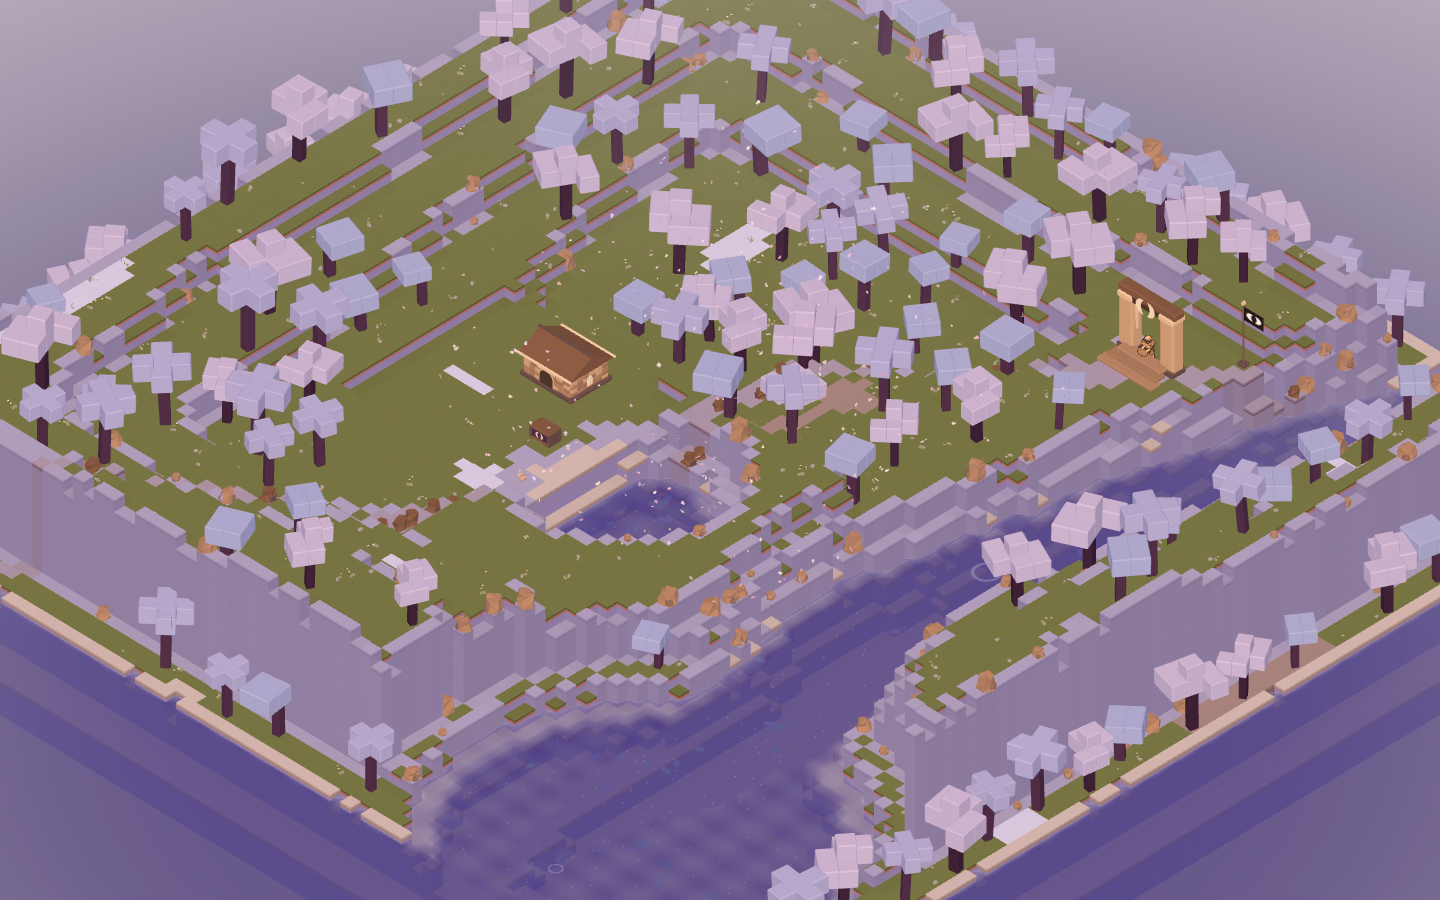
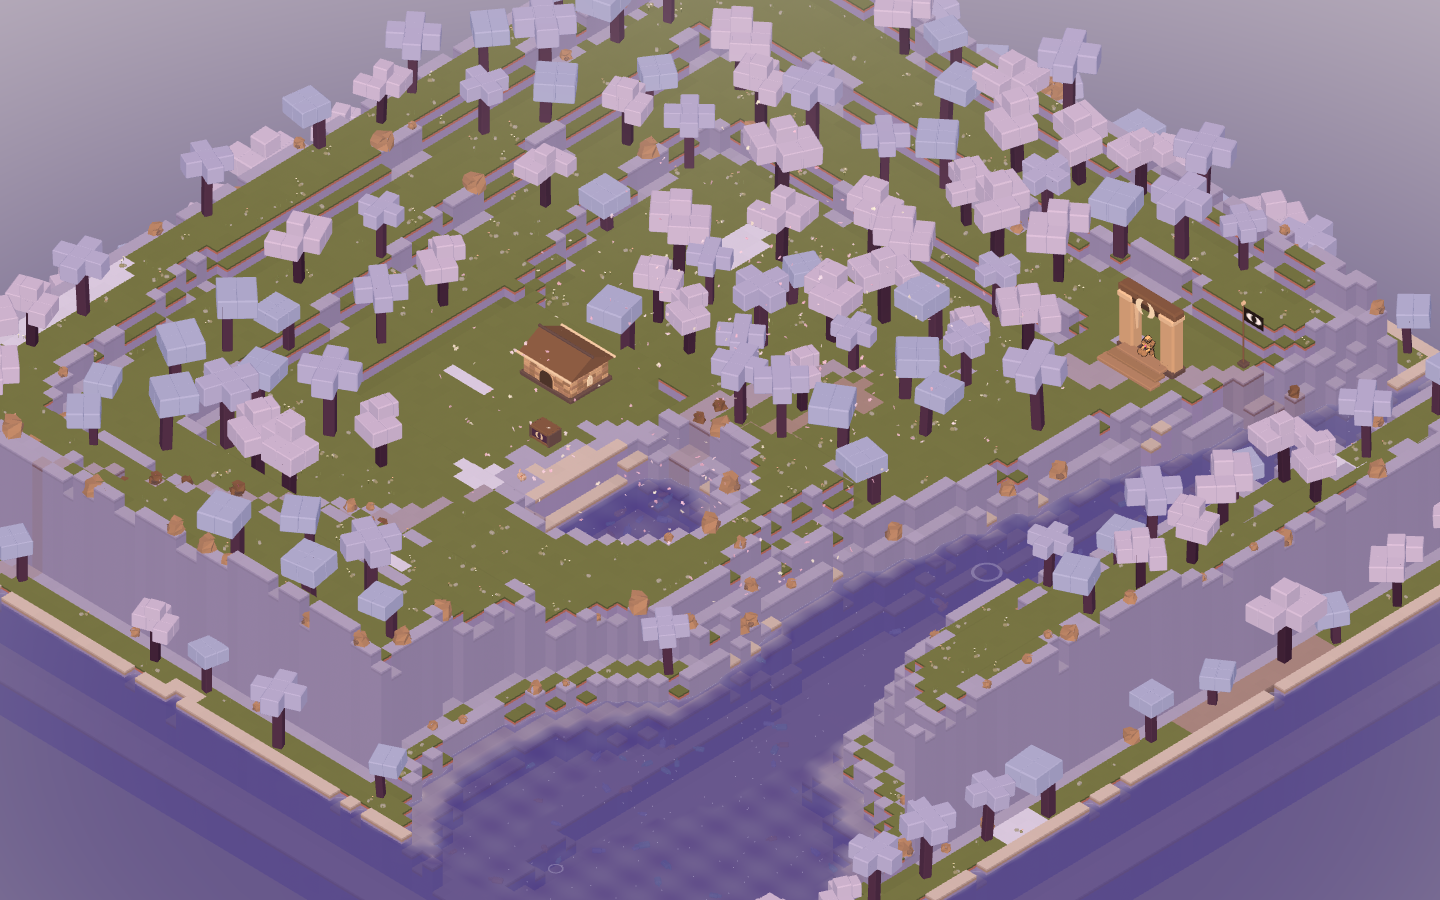
Nothing on a phone was tappable, because #app is position: fixed
The report was that the menu could not be clicked at all on mobile. The cause is
one line of CSS and it was much wider than the menu.

`#app` is `position: fixed`, and a fixed element creates a stacking context
whatever its z-index is. So everything inside it — the HUD at 10, the panels at
20, the title card at 40 — is layered against each OTHER and then the whole
subtree is painted as one unit at z-index auto. The touch canvas was appended to
`body` at z-index 15, which put it above all of it.

That is not a menu bug. On a phone, every DOM control in the game was covered by
a fullscreen transparent canvas that swallows pointer events: the hotbar, the
audio toggles, the tutorial's skip link, and every button in every panel.
Nothing was tappable, nothing threw, and nothing logged anything.

The canvas goes inside `#app` now, so the z-index it was given finally means
what it says, and the layers are written down in one place: world 0, pads 5, HUD
10, panels 20, title 40, cold open 44. The pads are also hidden outright while
the menu or the cold open is up — they belong to the game, not to the menu.

A screenshot cannot see any of this, which is why the mobile pose passed through
all of it. So the poses hit-test instead: `mobilemenu` presses Begin with a real
tap, skips the cold open and asserts the game is running; `mobile` runs
`elementFromPoint` over a hotbar slot, the sound toggle and the skip link and
[…]

diff --git a/tools/checks.js b/tools/checks.js
@@ -806,6 +806,42 @@ console.log('\nthe touch controls')
   }
   assert(tightest >= 10, 'no two pads overlap', `${pair} are ${tightest.toFixed(1)} points apart`)
 
+  /**
+   * The pads live INSIDE `#app`.
+   *
+   * `#app` is `position: fixed`, and a fixed element creates a stacking context
+   * whatever its z-index is — so everything inside it is layered against its
+   * siblings and then painted as one unit. A canvas appended to `body` at
+   * z-index 15 therefore sat above the entire interface: the title card at 40,
+   * the panels at 20, the hotbar, the audio toggles, the skip link. On a phone
+   * nothing at all was tappable, and nothing logged anything about it.
+   */
+  const touch = read(path.join(SRC, 'ui/touch.js'))
+  assert(/getElementById\('app'\)/.test(touch),
+    'the touch canvas lives inside #app, not on the body')
+  const css = read(path.join(SRC, 'ui/ui.css'))
+  // Plain string parsing rather than a regex: the block this reads is four
+  // rules and the escaping is not worth the risk of a pattern that quietly
+  // matches nothing and reports every layer as absent.
+  const layer = (sel) => {
+    const at = css.indexOf(`${sel} {`)
+    if (at < 0) return null
+    const rule = css.slice(at, css.indexOf('}', at))
+    const z = rule.indexOf('z-index:')
+    return z < 0 ? null : Number.parseInt(rule.slice(z + 8), 10)
+  }
+  const pads = layer('#touch')
+  const hud = layer('.hud')
+  const panels = layer('.panels')
+  const title = layer('.title')
+  const layers = `#touch ${pads} .hud ${hud} .panels ${panels} .title ${title}`
+  assert([pads, hud, panels, title].every((v) => Number.isInteger(v)),
+    'every interface layer declares a z-index', layers)
+  assert(pads < hud && hud < panels && panels < title,
+    'the pads sit under the interface they are meant to sit under', layers)
+  assert(css.includes('body.is-title #touch { display: none'),
+    'and they are not drawn over the menu at all')
+
   // The cluster has to fit beside the stick on the narrowest phone worth
   // supporting. 320 points is an iPhone SE in portrait.
   const NARROW = 320

diff --git a/src/ui/title.js b/src/ui/title.js
@@ -3,6 +3,7 @@ import { svgWordmark } from '../core/wordmark.js'
 import { GameState } from '../game/state.js'
 import { loadAppearance, saveAppearance } from '../game/appearance.js'
 import { buildCustomizer } from './customize.js'
+import { isTouch } from './keycaps.js'
 
 /**
  * The title card.
@@ -73,7 +74,21 @@ export function showTitle(root, { onStart, seed }) {
   seedRow.append(seedInput)
   left.append(seedRow)
 
-  left.append(el('div', 'title-keys', `
+  /**
+   * The controls, in the language of whatever is holding the device.
+   *
+   * A phone has no Shift key, no scroll wheel and no number row, so listing them
+   * is not merely unhelpful — it tells a player that controls exist which do
+   * not, while the ones that do sit unlabelled at the bottom of the screen.
+   */
+  left.append(el('div', 'title-keys', isTouch()
+    ? `
+    <div>drag the <b>stick</b> to walk · further to run</div>
+    <div><b>USE</b> the tool in hand · <b>E</b> interact, talk, harvest</div>
+    <div>tap the bar to change tool · <b>TURN</b> the camera · pinch to zoom</div>
+    <div><b>REST</b> homestead · <b>MAKE</b> build and register · <b>LOG</b> journal</div>
+  `
+    : `
     <div><kbd>WASD</kbd> walk <kbd>Shift</kbd> run <kbd>Space</kbd> jump</div>
     <div><kbd>F</kbd> use the tool in hand <kbd>E</kbd> interact, talk, harvest</div>
     <div><kbd>1</kbd>–<kbd>8</kbd> hotbar <kbd>Q</kbd> <kbd>R</kbd> turn the camera <kbd>wheel</kbd> zoom</div>

diff --git a/src/ui/touch.js b/src/ui/touch.js
@@ -65,7 +65,22 @@ export class TouchControls {
     this.canvas = document.createElement('canvas')
     this.canvas.id = 'touch'
     this.ctx = this.canvas.getContext('2d')
-    document.body.append(this.canvas)
+    /**
+     * Into `#app`, NOT into `body`.
+     *
+     * `#app` is `position: fixed`, and a fixed element creates a stacking
+     * context whatever its z-index is. So everything inside it — the HUD, the
+     * panels, the title card — is layered relative to each other and then the
+     * whole subtree is painted as one unit at z-index auto. A canvas appended to
+     * `body` at z-index 15 therefore sat above ALL of it: the title card at 40,
+     * the panels at 20, the hotbar, the audio toggles, the skip link. On a phone
+     * every DOM control in the game was covered by a transparent canvas that
+     * swallows pointer events, and nothing was tappable at all.
+     *
+     * Inside `#app` it competes in the same context as everything else, and the
+     * z-index it was given finally means what it says.
+     */
+    ;(document.getElementById('app') ?? document.body).append(this.canvas)
 
     // `home` is where the ring is CURRENTLY drawn and moves to the thumb; `rest`
     // is where it belongs when nobody is holding it. Without the second one the

diff --git a/src/ui/ui.css b/src/ui/ui.css
@@ -69,6 +69,7 @@ html, body {
 /* ==================================================================== HUD  */
 
 .hud {
+  z-index: 10;
   position: fixed;
   inset: 0;
   pointer-events: none;
@@ -664,14 +665,19 @@ kbd {
 /* Drawn into their own canvas and hit-tested by hand — see src/ui/touch.js for
    why Button elements cannot be used here. The canvas is the whole viewport and
    is transparent to pointer events except where the stick and pads are. */
+/* The layers inside #app, in one place, because they only make sense together:
+   world 0 · touch pads 5 · HUD 10 · panels 20 · title 40 · cold open 44. */
 #touch {
   position: fixed;
   inset: 0;
-  z-index: 15;
+  z-index: 5;
   display: none;
   touch-action: none;
 }
 body.is-touch #touch { display: block; }
+/* The pads belong to the game, not to the menu. Drawing them over the title
+   card is how the screenshot of an unusable phone menu happened. */
+body.is-title #touch { display: none; }
 body.is-touch .hud .meters { bottom: calc(var(--u) * 10.5); }
 
 @media (prefers-reduced-motion: reduce) {

diff --git a/src/world/worldgen.js b/src/world/worldgen.js
@@ -387,7 +387,13 @@ export function generate(seed) {
         // Geodes seed along the fault. They are the reason to walk it.
         grid.prop[i] = P.GEODE
         grid.propData[i] = randInt(r, 0, 3)
-      } else if ((g === G.MEADOW || g === G.ASH) && chance(r, 0.075)) {
+      } else if ((g === G.MEADOW || g === G.ASH) && chance(r, 0.14)) {
+        // Denser than it was. Thinning the forest to blue noise opened the
+        // ground up, and what filled it was nothing: large flats of one green
+        // with a tree every four cells. The scatter is tiny — a stone or two and
+        // a couple of blades — so twice as much of it is texture rather than
+        // clutter, and it is the layer the reference actually carries its
+        // ground detail in.
         grid.prop[i] = P.GRASS
         grid.propData[i] = randInt(r, 0, 3)
       }
